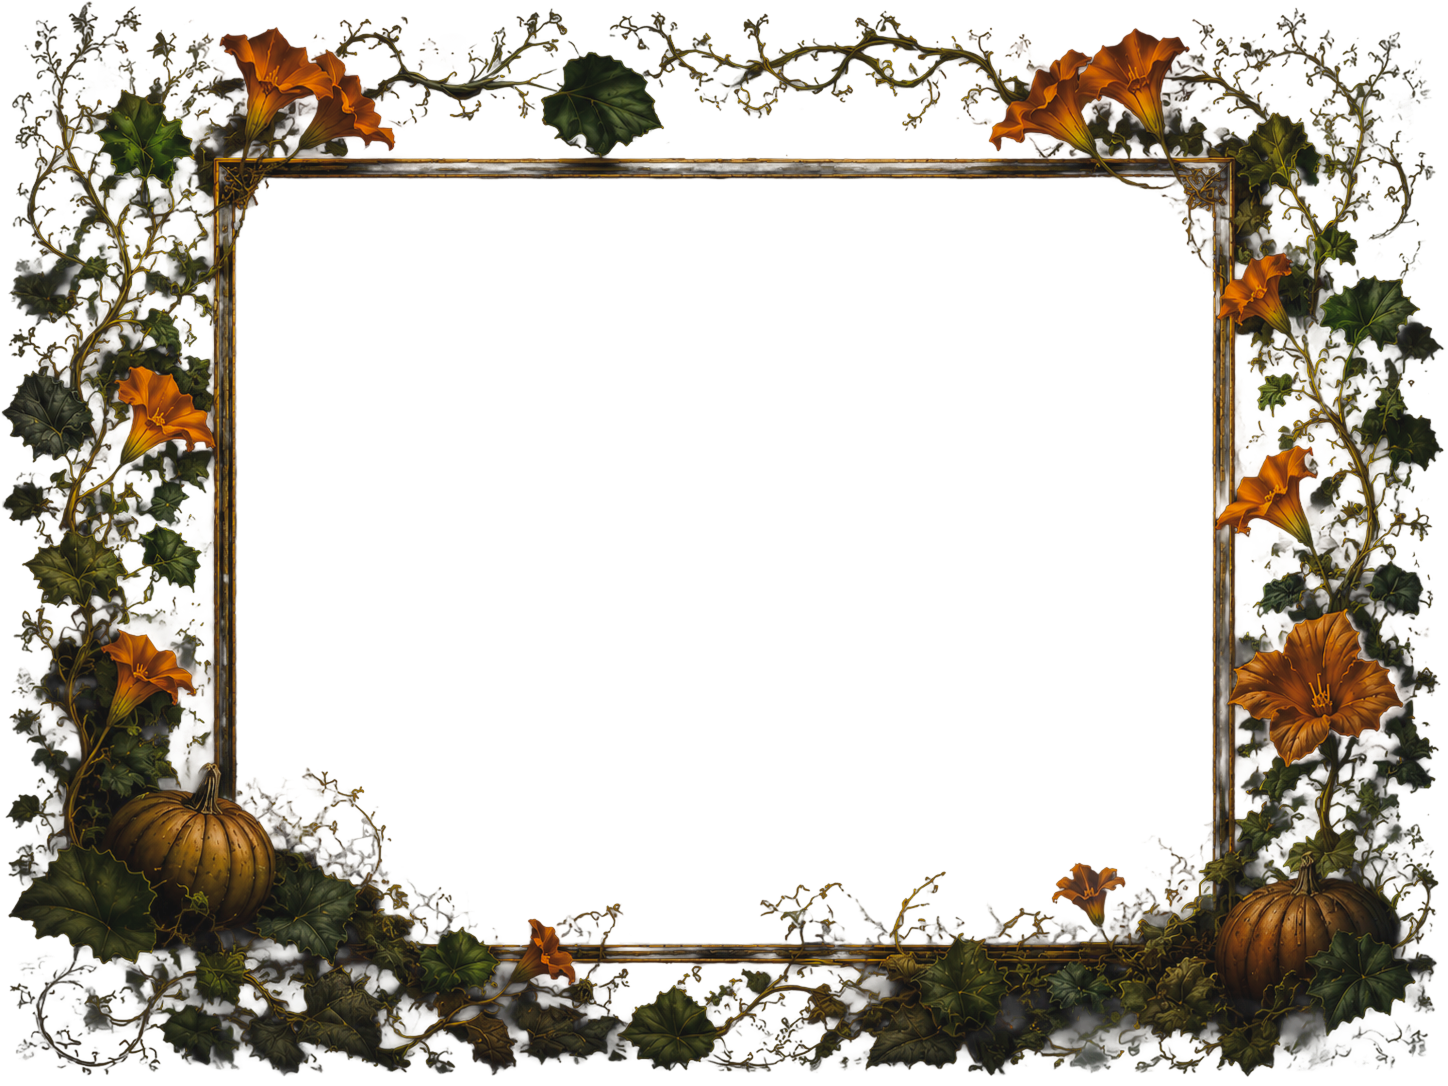
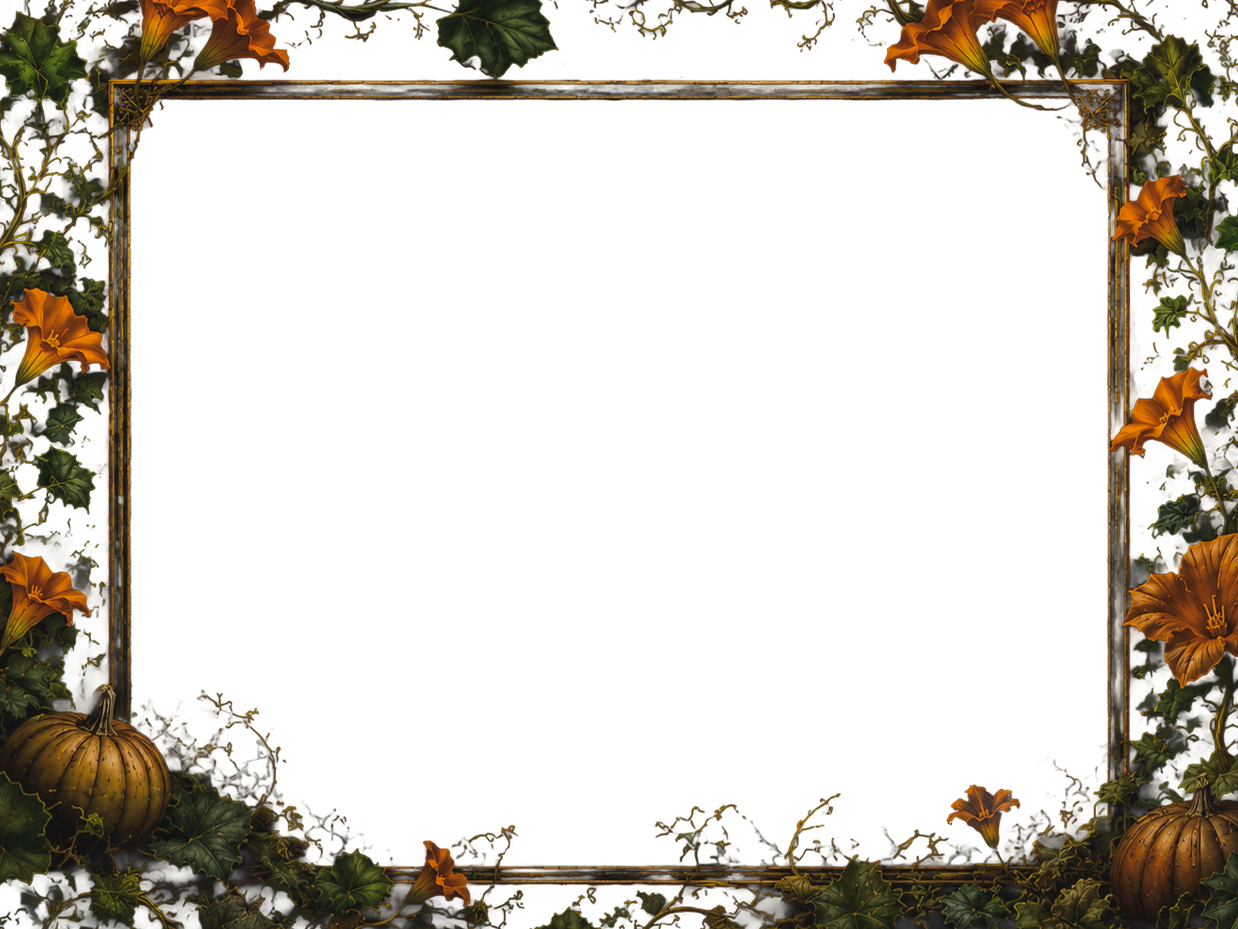
refactor: simplify ImageWall layout by removing parallax effects and adding mobile-responsive file upload UI

diff --git a/src/components/ImageWall.jsx b/src/components/ImageWall.jsx
@@ -1,72 +1,22 @@
 'use client';
 
-import { useRef, useEffect } from 'react';
+import { useRef, useState, useEffect } from 'react';
 
 export default function ImageWall({ onBack }) {
   const iframeRef = useRef(null);
-  const desktopLayerRef = useRef(null);
-  const tabletLayerRef = useRef(null);
-  const mobileLayerRef = useRef(null);
+  const [isModalOpen, setIsModalOpen] = useState(false);
 
   useEffect(() => {
-    let currentScrollY = 0;
-    let currentMouse = { x: 0, y: 0 };
-    let targetMouse = { x: 0, y: 0 };
-    let rafId = null;
-
-    const updateStyles = () => {
-      // Smoothly interpolate mouse coords for extra buttery parallax
-      currentMouse.x += (targetMouse.x - currentMouse.x) * 0.08;
-      currentMouse.y += (targetMouse.y - currentMouse.y) * 0.08;
-
-      // Apply parallax offsets: scrollY * -offset multiplier, mouse * -range px
-      if (desktopLayerRef.current) {
-        const tx = currentMouse.x * -25;
-        const ty = currentMouse.y * -25 + currentScrollY * -12;
-        desktopLayerRef.current.style.transform = `translate3d(${tx}px, ${ty}px, 0) scale(1.08)`;
-      }
-      if (tabletLayerRef.current) {
-        const tx = currentMouse.x * -20;
-        const ty = currentMouse.y * -20 + currentScrollY * -10;
-        tabletLayerRef.current.style.transform = `translate3d(${tx}px, ${ty}px, 0) scale(1.08)`;
-      }
-      if (mobileLayerRef.current) {
-        const tx = currentMouse.x * -15;
-        const ty = currentMouse.y * -15 + currentScrollY * -8;
-        mobileLayerRef.current.style.transform = `translate3d(${tx}px, ${ty}px, 0) scale(1.08)`;
-      }
-
-      rafId = requestAnimationFrame(updateStyles);
-    };
-
-    rafId = requestAnimationFrame(updateStyles);
-
     const handleMessage = (event) => {
       if (!event.data) return;
-      if (event.data.type === 'WALL_SCROLL') {
-        currentScrollY = event.data.scrollY;
-      } else if (event.data.type === 'WALL_MOUSEMOVE') {
-        targetMouse.x = event.data.nx;
-        targetMouse.y = event.data.ny;
+      if (event.data.type === 'MODAL_STATE') {
+        setIsModalOpen(event.data.isOpen);
       }
     };
-
-    const handleMouseMove = (e) => {
-      const nx = (e.clientX / window.innerWidth) - 0.5;
-      const ny = (e.clientY / window.innerHeight) - 0.5;
-      targetMouse.x = nx;
-      targetMouse.y = ny;
-    };
-
     window.addEventListener('message', handleMessage);
-    window.addEventListener('mousemove', handleMouseMove);
-
-    return () => {
-      window.removeEventListener('message', handleMessage);
-      window.removeEventListener('mousemove', handleMouseMove);
-      cancelAnimationFrame(rafId);
-    };
+    return () => window.removeEventListener('message', handleMessage);
   }, []);
+
 
   const triggerUploadModal = () => {
     if (iframeRef.current) {
@@ -77,12 +27,12 @@ export default function ImageWall({ onBack }) {
   return (
     <div className="w-full h-full relative bg-[#07161b] overflow-hidden">
       {/* Header strip */}
-      <div className="absolute top-0 left-0 right-0 z-10 px-4 md:px-6 pt-4 md:pt-5 pb-3 pointer-events-none flex flex-col sm:flex-row justify-between items-start sm:items-center gap-3 sm:gap-0"
+      <div className="absolute top-0 left-0 right-0 z-10 px-4 md:px-6 pt-4 md:pt-5 pb-3 pointer-events-none flex flex-col items-center gap-3"
         style={{ background: 'linear-gradient(to bottom, rgba(7,22,27,0.95) 0%, transparent 100%)' }}
       >
-        <div>
+        <div className="text-center flex flex-col items-center">
           <h2
-            className="text-lg md:text-[22px] font-semibold tracking-[0.3em] uppercase"
+            className="text-lg md:text-[22px] font-semibold tracking-[0.3em] uppercase text-center"
             style={{
               fontFamily: "'Cormorant Garamond', Georgia, serif",
               background: 'linear-gradient(105deg, #9c7a35 0%, #f0d693 35%, #c9a24c 55%, #f6e4a8 70%, #9c7a35 100%)',
@@ -98,7 +48,7 @@ export default function ImageWall({ onBack }) {
           </p>
         </div>
 
-        <div className="flex flex-row sm:flex-col items-center sm:items-end gap-2 sm:gap-3 pointer-events-auto mt-1 flex-wrap justify-end">
+        <div className="flex flex-row items-center justify-center gap-2 sm:gap-3 pointer-events-auto mt-1">
           {onBack && (
             <button
               onClick={onBack}
@@ -122,7 +72,7 @@ export default function ImageWall({ onBack }) {
                 e.currentTarget.style.boxShadow = 'none';
               }}
             >
-              <span>←</span> Back to Tribute
+              <span>←</span> Back
             </button>
           )}
 
@@ -150,7 +100,7 @@ export default function ImageWall({ onBack }) {
               e.currentTarget.style.boxShadow = '0 0 15px rgba(201,162,76,0.1)';
             }}
           >
-            <span>📷 Camera & Upload</span>
+            <span>Upload</span>
           </button>
         </div>
       </div>
@@ -159,37 +109,34 @@ export default function ImageWall({ onBack }) {
       <iframe
         ref={iframeRef}
         src="/image-wall.html"
-        className="absolute inset-0 w-full h-full border-0"
+        className={`absolute inset-0 w-full h-full border-0 ${isModalOpen ? 'z-50' : 'z-0'}`}
         title="Image Wall"
         allow="camera"
         sandbox="allow-scripts allow-same-origin allow-forms allow-popups"
       />
 
-      {/* Responsive Parallax Overlays */}
+      {/* Responsive Static Overlays */}
       <div className="absolute inset-0 pointer-events-none overflow-hidden" style={{ zIndex: 5 }}>
         {/* Desktop Layer */}
         <img
-          ref={desktopLayerRef}
           src="/wall-layers/wall-layer-desktop.png"
           alt=""
-          className="hidden md:block absolute inset-0 w-full h-full object-cover will-change-transform"
-          style={{ transform: 'scale(1.08)', opacity: 0.95 }}
+          className="hidden md:block absolute inset-0 w-full h-full object-cover"
+          style={{ opacity: 0.95 }}
         />
         {/* Tablet Layer */}
         <img
-          ref={tabletLayerRef}
           src="/wall-layers/wall-layer-tablet.png"
           alt=""
-          className="hidden sm:block md:hidden absolute inset-0 w-full h-full object-cover will-change-transform"
-          style={{ transform: 'scale(1.08)', opacity: 0.95 }}
+          className="hidden sm:block md:hidden absolute inset-0 w-full h-full object-cover"
+          style={{ opacity: 0.95 }}
         />
         {/* Mobile Layer */}
         <img
-          ref={mobileLayerRef}
           src="/wall-layers/wall-layer-mobile.png"
           alt=""
-          className="block sm:hidden absolute inset-0 w-full h-full object-cover will-change-transform"
-          style={{ transform: 'scale(1.08)', opacity: 0.95 }}
+          className="block sm:hidden absolute inset-0 w-full h-full object-cover"
+          style={{ opacity: 0.95 }}
         />
       </div>
 

diff --git a/public/image-wall.html b/public/image-wall.html
@@ -395,6 +395,10 @@
       opacity: 1;
     }
 
+    .mobile-drop-content {
+      display: none;
+    }
+
     @media (max-width: 600px) {
       .modalSplit {
         flex-direction: column;
@@ -406,6 +410,29 @@
 
       .modalContent {
         padding: 30px 20px 20px;
+      }
+
+      .desktop-drop-content {
+        display: none;
+      }
+
+      .mobile-drop-content {
+        display: block;
+        width: 100%;
+      }
+
+      .dropBox {
+        height: auto;
+        border: none;
+        background: transparent;
+        padding: 10px 0;
+      }
+
+      .dropBox:hover,
+      .dropBox.over {
+        border: none;
+        background: transparent;
+        box-shadow: none;
       }
     }
   </style>
@@ -422,7 +449,7 @@
         <!-- Left: Camera Panel -->
         <div class="modalPane camPane">
           <div class="paneHeader">
-            <h3>📷 Live Camera</h3>
+            <h3>Live Camera</h3>
           </div>
           <div class="camContainer">
             <video id="camVideo" autoplay playsinline muted></video>
@@ -440,16 +467,23 @@
         <!-- Right: File Upload Panel -->
         <div class="modalPane filePane">
           <div class="paneHeader">
-            <h3>📁 Upload Photo</h3>
+            <h3>Upload Photo</h3>
           </div>
           <div class="dropBox" id="dropBox">
-            <svg width="40" height="40" viewBox="0 0 24 24" fill="none" stroke="#c9a24c" stroke-width="1.2">
-              <rect x="3" y="3" width="18" height="18" rx="2" />
-              <circle cx="8.5" cy="8.5" r="1.5" />
-              <polyline points="21,15 16,10 5,21" />
-            </svg>
-            <h4>Drag & Drop</h4>
-            <p>or click to browse files</p>
+            <div class="desktop-drop-content">
+              <svg width="40" height="40" viewBox="0 0 24 24" fill="none" stroke="#c9a24c" stroke-width="1.2">
+                <rect x="3" y="3" width="18" height="18" rx="2" />
+                <circle cx="8.5" cy="8.5" r="1.5" />
+                <polyline points="21,15 16,10 5,21" />
+              </svg>
+              <h4>Drag & Drop</h4>
+              <p>or click to browse files</p>
+            </div>
+            <div class="mobile-drop-content">
+              <button class="btn"
+                style="background: linear-gradient(180deg, #f0d693, #c9a24c 55%, #9c7a35); color: #2a1d05; width: 100%; padding: 14px 0; font-size: 14px; margin-top: 10px;">Upload
+                File</button>
+            </div>
           </div>
         </div>
       </div>
@@ -1463,11 +1497,13 @@
       uploadModal.offsetHeight; // Force layout reflow for animation
       uploadModal.classList.add('visible');
       startStream();
+      window.parent.postMessage({ type: 'MODAL_STATE', isOpen: true }, '*');
     }
 
     function closeUploadModal() {
       stopStream();
       uploadModal.classList.remove('visible');
+      window.parent.postMessage({ type: 'MODAL_STATE', isOpen: false }, '*');
       setTimeout(() => {
         if (!uploadModal.classList.contains('visible')) {
           uploadModal.classList.add('hidden');